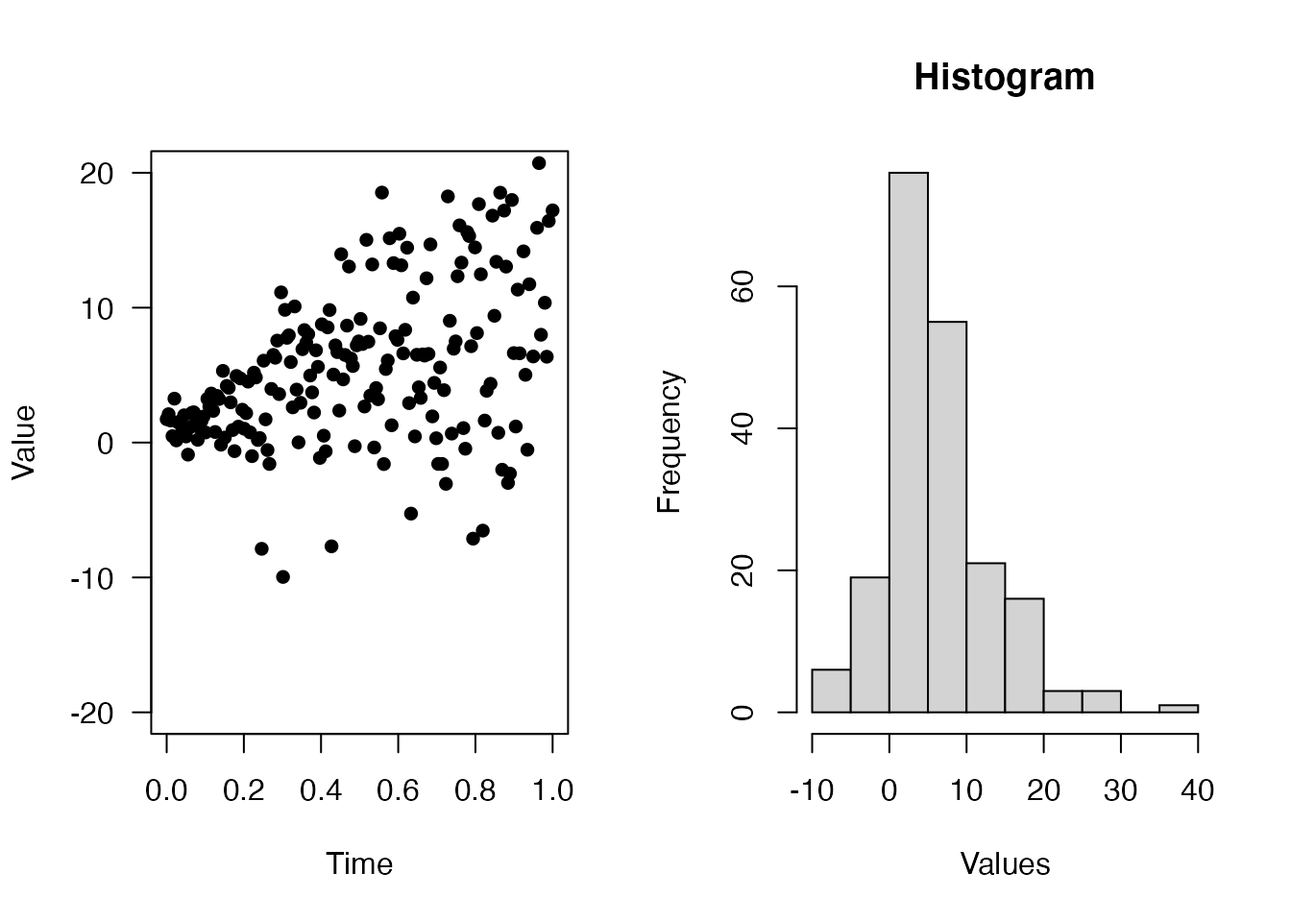
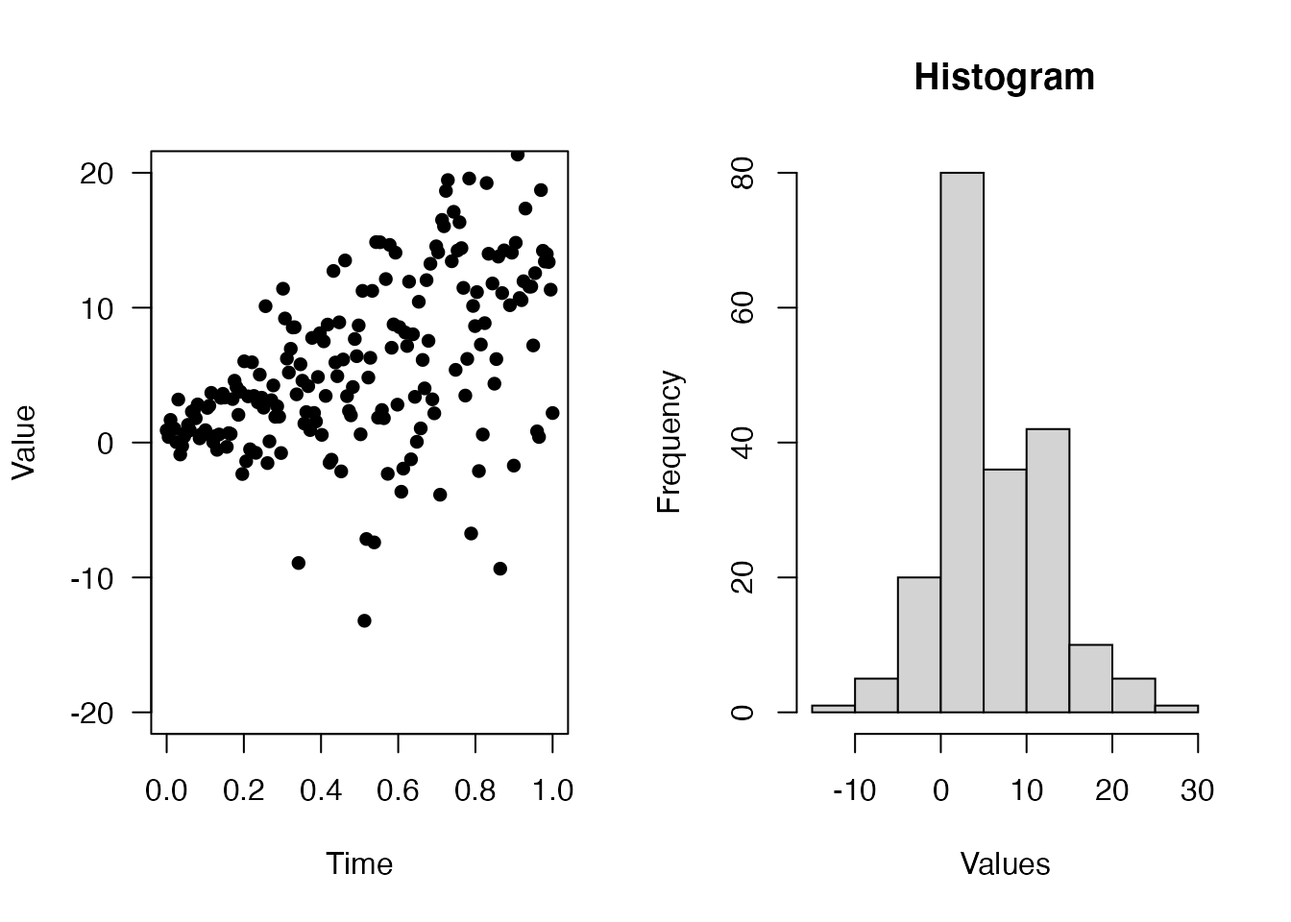
Built site for dipsaus: 0.1.9.9000@4044653

diff --git a/reference/new_function2.html b/reference/new_function2.html
@@ -136,7 +136,7 @@ function like <code>function(a){...}</code>. See examples for more details.</p>
 <span class="r-out co"><span class="r-pr">#&gt;</span> {</span>
 <span class="r-out co"><span class="r-pr">#&gt;</span>     print(a + 1:10)</span>
 <span class="r-out co"><span class="r-pr">#&gt;</span> }</span>
-<span class="r-out co"><span class="r-pr">#&gt;</span> &lt;environment: 0x7f8c1d79ace0&gt;</span>
+<span class="r-out co"><span class="r-pr">#&gt;</span> &lt;environment: 0x7ff2b4990550&gt;</span>
 <span class="r-in"></span>
 <span class="r-in"><span class="fu">f2</span><span class="op">(</span><span class="fl">0</span><span class="op">)</span></span>
 <span class="r-out co"><span class="r-pr">#&gt;</span>  [1]  1  2  3  4  5  6  7  8  9 10</span>
@@ -154,26 +154,26 @@ function like <code>function(a){...}</code>. See examples for more details.</p>
 <span class="r-out co"><span class="r-pr">#&gt;</span> function (a = 123) </span>
 <span class="r-out co"><span class="r-pr">#&gt;</span> {</span>
 <span class="r-out co"><span class="r-pr">#&gt;</span> }</span>
-<span class="r-out co"><span class="r-pr">#&gt;</span> &lt;environment: 0x7f8c1c32a270&gt;</span>
+<span class="r-out co"><span class="r-pr">#&gt;</span> &lt;environment: 0x7ff2b37abee0&gt;</span>
 <span class="r-in"></span>
 <span class="r-in"><span class="co"># default with values unevaluated</span></span>
 <span class="r-in"><span class="fu">new_function2</span><span class="op">(</span><span class="fu"><a href="https://rdrr.io/r/base/list.html" class="external-link">list</a></span><span class="op">(</span>a <span class="op">=</span> <span class="fu"><a href="https://rdrr.io/r/base/substitute.html" class="external-link">quote</a></span><span class="op">(</span><span class="va">default</span><span class="op">)</span><span class="op">)</span><span class="op">)</span>   <span class="co"># function (a = default){}</span></span>
 <span class="r-out co"><span class="r-pr">#&gt;</span> function (a = default) </span>
 <span class="r-out co"><span class="r-pr">#&gt;</span> {</span>
 <span class="r-out co"><span class="r-pr">#&gt;</span> }</span>
-<span class="r-out co"><span class="r-pr">#&gt;</span> &lt;environment: 0x7f8c1c23fba8&gt;</span>
+<span class="r-out co"><span class="r-pr">#&gt;</span> &lt;environment: 0x7ff2b3896d30&gt;</span>
 <span class="r-in"><span class="fu">new_function2</span><span class="op">(</span><span class="fu"><a href="https://rdrr.io/r/base/list.html" class="external-link">alist</a></span><span class="op">(</span>a <span class="op">=</span> <span class="va">default</span><span class="op">)</span><span class="op">)</span></span>
 <span class="r-out co"><span class="r-pr">#&gt;</span> function (a = default) </span>
 <span class="r-out co"><span class="r-pr">#&gt;</span> {</span>
 <span class="r-out co"><span class="r-pr">#&gt;</span> }</span>
-<span class="r-out co"><span class="r-pr">#&gt;</span> &lt;environment: 0x7f8c1d3dc558&gt;</span>
+<span class="r-out co"><span class="r-pr">#&gt;</span> &lt;environment: 0x7ff2b3826588&gt;</span>
 <span class="r-in"></span>
 <span class="r-in"><span class="co"># missing default</span></span>
 <span class="r-in"><span class="fu">new_function2</span><span class="op">(</span><span class="fu"><a href="https://rdrr.io/r/base/list.html" class="external-link">alist</a></span><span class="op">(</span>a <span class="op">=</span> <span class="op">)</span><span class="op">)</span>    <span class="co"># function (a){}</span></span>
 <span class="r-out co"><span class="r-pr">#&gt;</span> function (a) </span>
 <span class="r-out co"><span class="r-pr">#&gt;</span> {</span>
 <span class="r-out co"><span class="r-pr">#&gt;</span> }</span>
-<span class="r-out co"><span class="r-pr">#&gt;</span> &lt;environment: 0x7f8c1ccb36f8&gt;</span>
+<span class="r-out co"><span class="r-pr">#&gt;</span> &lt;environment: 0x7ff2b409ba88&gt;</span>
 <span class="r-in"></span>
 <span class="r-in"></span>
 </code></pre></div>

diff --git a/reference/shared_finalizer.html b/reference/shared_finalizer.html
@@ -251,8 +251,8 @@ instances, <code>fin</code> accepts no argument.</p>
 <span class="r-out co"><span class="r-pr">#&gt;</span> NULL</span>
 <span class="r-in"><span class="fu"><a href="https://rdrr.io/r/base/gc.html" class="external-link">gc</a></span><span class="op">(</span><span class="op">)</span></span>
 <span class="r-out co"><span class="r-pr">#&gt;</span>           used (Mb) gc trigger  (Mb) limit (Mb) max used  (Mb)</span>
-<span class="r-out co"><span class="r-pr">#&gt;</span> Ncells 1208958 64.6    2108318 112.6         NA  2108318 112.6</span>
-<span class="r-out co"><span class="r-pr">#&gt;</span> Vcells 2245856 17.2   12075001  92.2      16384 23583970 180.0</span>
+<span class="r-out co"><span class="r-pr">#&gt;</span> Ncells 1209443 64.6    2160025 115.4         NA  2160025 115.4</span>
+<span class="r-out co"><span class="r-pr">#&gt;</span> Vcells 2247152 17.2   12076090  92.2      16384 23585927 180.0</span>
 <span class="r-in"><span class="va">file_exists</span></span>
 <span class="r-out co"><span class="r-pr">#&gt;</span> [1] TRUE</span>
 <span class="r-in"></span>
@@ -260,8 +260,8 @@ instances, <code>fin</code> accepts no argument.</p>
 <span class="r-in"><span class="fu"><a href="https://rdrr.io/r/base/rm.html" class="external-link">rm</a></span><span class="op">(</span><span class="va">e1</span><span class="op">)</span>; <span class="fu"><a href="https://rdrr.io/r/base/gc.html" class="external-link">gc</a></span><span class="op">(</span><span class="op">)</span></span>
 <span class="r-out co"><span class="r-pr">#&gt;</span> [1] "Clean some shared files"</span>
 <span class="r-out co"><span class="r-pr">#&gt;</span>           used (Mb) gc trigger  (Mb) limit (Mb) max used  (Mb)</span>
-<span class="r-out co"><span class="r-pr">#&gt;</span> Ncells 1208969 64.6    2108318 112.6         NA  2108318 112.6</span>
-<span class="r-out co"><span class="r-pr">#&gt;</span> Vcells 2245904 17.2   12075001  92.2      16384 23583970 180.0</span>
+<span class="r-out co"><span class="r-pr">#&gt;</span> Ncells 1209454 64.6    2160025 115.4         NA  2160025 115.4</span>
+<span class="r-out co"><span class="r-pr">#&gt;</span> Vcells 2247200 17.2   12076090  92.2      16384 23585927 180.0</span>
 <span class="r-in"><span class="va">e2</span><span class="op">$</span><span class="fu">valid</span><span class="op">(</span><span class="op">)</span>    <span class="co"># FALSE</span></span>
 <span class="r-out co"><span class="r-pr">#&gt;</span> [1] FALSE</span>
 <span class="r-in"></span>
@@ -269,8 +269,8 @@ instances, <code>fin</code> accepts no argument.</p>
 <span class="r-in"><span class="fu"><a href="https://rdrr.io/r/base/rm.html" class="external-link">rm</a></span><span class="op">(</span><span class="va">e2</span><span class="op">)</span>; <span class="fu"><a href="https://rdrr.io/r/base/gc.html" class="external-link">gc</a></span><span class="op">(</span><span class="op">)</span></span>
 <span class="r-out co"><span class="r-pr">#&gt;</span> [1] "Clean some shared files"</span>
 <span class="r-out co"><span class="r-pr">#&gt;</span>           used (Mb) gc trigger  (Mb) limit (Mb) max used  (Mb)</span>
-<span class="r-out co"><span class="r-pr">#&gt;</span> Ncells 1208990 64.6    2108318 112.6         NA  2108318 112.6</span>
-<span class="r-out co"><span class="r-pr">#&gt;</span> Vcells 2245918 17.2   12075001  92.2      16384 23583970 180.0</span>
+<span class="r-out co"><span class="r-pr">#&gt;</span> Ncells 1209475 64.6    2160025 115.4         NA  2160025 115.4</span>
+<span class="r-out co"><span class="r-pr">#&gt;</span> Vcells 2247214 17.2   12076090  92.2      16384 23585927 180.0</span>
 <span class="r-in"></span>
 </code></pre></div>
     </div>

diff --git a/reference/collapse.html b/reference/collapse.html
@@ -125,9 +125,9 @@ collapsing dimensions</p>
 <span class="r-in">  <span class="op">}</span></span>
 <span class="r-in"><span class="op">)</span></span>
 <span class="r-out co"><span class="r-pr">#&gt;</span> Unit: microseconds</span>
-<span class="r-out co"><span class="r-pr">#&gt;</span>     expr     min      lq    mean  median      uq     max neval</span>
-<span class="r-out co"><span class="r-pr">#&gt;</span>   result 673.934 673.934 673.934 673.934 673.934 673.934     1</span>
-<span class="r-out co"><span class="r-pr">#&gt;</span>  compare 191.743 191.743 191.743 191.743 191.743 191.743     1</span>
+<span class="r-out co"><span class="r-pr">#&gt;</span>     expr       min        lq      mean    median        uq       max neval</span>
+<span class="r-out co"><span class="r-pr">#&gt;</span>   result 10940.393 10940.393 10940.393 10940.393 10940.393 10940.393     1</span>
+<span class="r-out co"><span class="r-pr">#&gt;</span>  compare   388.777   388.777   388.777   388.777   388.777   388.777     1</span>
 <span class="r-in"></span>
 <span class="r-in"><span class="co"># large data big difference</span></span>
 <span class="r-in"><span class="va">x</span> <span class="op">=</span> <span class="fu"><a href="https://rdrr.io/r/base/array.html" class="external-link">array</a></span><span class="op">(</span><span class="fu"><a href="https://rdrr.io/r/stats/Normal.html" class="external-link">rnorm</a></span><span class="op">(</span><span class="fu"><a href="https://rdrr.io/r/base/prod.html" class="external-link">prod</a></span><span class="op">(</span><span class="fl">300</span>,<span class="fl">200</span>,<span class="fl">105</span><span class="op">)</span><span class="op">)</span>, <span class="fu"><a href="https://rdrr.io/r/base/c.html" class="external-link">c</a></span><span class="op">(</span><span class="fl">300</span>,<span class="fl">200</span>,<span class="fl">105</span>,<span class="fl">1</span><span class="op">)</span><span class="op">)</span></span>
@@ -139,8 +139,8 @@ collapsing dimensions</p>
 <span class="r-in">  <span class="op">}</span><span class="op">)</span></span>
 <span class="r-out co"><span class="r-pr">#&gt;</span> Unit: milliseconds</span>
 <span class="r-out co"><span class="r-pr">#&gt;</span>     expr       min        lq      mean    median        uq       max neval</span>
-<span class="r-out co"><span class="r-pr">#&gt;</span>   result  52.53767  52.53767  52.53767  52.53767  52.53767  52.53767     1</span>
-<span class="r-out co"><span class="r-pr">#&gt;</span>  compare 206.15907 206.15907 206.15907 206.15907 206.15907 206.15907     1</span>
+<span class="r-out co"><span class="r-pr">#&gt;</span>   result  67.92843  67.92843  67.92843  67.92843  67.92843  67.92843     1</span>
+<span class="r-out co"><span class="r-pr">#&gt;</span>  compare 200.82227 200.82227 200.82227 200.82227 200.82227 200.82227     1</span>
 <span class="r-in"></span>
 </code></pre></div>
     </div>

diff --git a/reference/fastqueue2.html b/reference/fastqueue2.html
@@ -126,7 +126,7 @@ as.list(x, ...)</code></pre></div>
 <span class="r-in"><span class="co"># the second item</span></span>
 <span class="r-in"><span class="va">x</span><span class="op">[[</span><span class="fl">2</span><span class="op">]</span><span class="op">]</span></span>
 <span class="r-out co"><span class="r-pr">#&gt;</span> function(){ "c" }</span>
-<span class="r-out co"><span class="r-pr">#&gt;</span> &lt;environment: 0x7f8c0ad06ad0&gt;</span>
+<span class="r-out co"><span class="r-pr">#&gt;</span> &lt;environment: 0x7ff2b6a6a5c0&gt;</span>
 <span class="r-in"></span>
 <span class="r-in"><span class="co"># first two items in a list</span></span>
 <span class="r-in"><span class="va">x</span><span class="op">[</span><span class="fu"><a href="https://rdrr.io/r/base/c.html" class="external-link">c</a></span><span class="op">(</span><span class="fl">1</span>,<span class="fl">2</span><span class="op">)</span><span class="op">]</span></span>
@@ -135,7 +135,7 @@ as.list(x, ...)</code></pre></div>
 <span class="r-out co"><span class="r-pr">#&gt;</span> </span>
 <span class="r-out co"><span class="r-pr">#&gt;</span> [[2]]</span>
 <span class="r-out co"><span class="r-pr">#&gt;</span> function(){ "c" }</span>
-<span class="r-out co"><span class="r-pr">#&gt;</span> &lt;environment: 0x7f8c0ad06ad0&gt;</span>
+<span class="r-out co"><span class="r-pr">#&gt;</span> &lt;environment: 0x7ff2b6a6a5c0&gt;</span>
 <span class="r-out co"><span class="r-pr">#&gt;</span> </span>
 <span class="r-in"></span>
 <span class="r-in"><span class="fu"><a href="https://rdrr.io/r/base/print.html" class="external-link">print</a></span><span class="op">(</span><span class="va">x</span><span class="op">)</span></span>
@@ -146,7 +146,7 @@ as.list(x, ...)</code></pre></div>
 <span class="r-out co"><span class="r-pr">#&gt;</span> </span>
 <span class="r-out co"><span class="r-pr">#&gt;</span> [[2]]</span>
 <span class="r-out co"><span class="r-pr">#&gt;</span> function(){ "c" }</span>
-<span class="r-out co"><span class="r-pr">#&gt;</span> &lt;environment: 0x7f8c0ad06ad0&gt;</span>
+<span class="r-out co"><span class="r-pr">#&gt;</span> &lt;environment: 0x7ff2b6a6a5c0&gt;</span>
 <span class="r-out co"><span class="r-pr">#&gt;</span> </span>
 <span class="r-out co"><span class="r-pr">#&gt;</span> [[3]]</span>
 <span class="r-out co"><span class="r-pr">#&gt;</span> [1] 4</span>

diff --git a/reference/grapes-equals-greater-than-grapes.html b/reference/grapes-equals-greater-than-grapes.html
@@ -95,7 +95,7 @@ the function body</p>
 <span class="r-out co"><span class="r-pr">#&gt;</span> {</span>
 <span class="r-out co"><span class="r-pr">#&gt;</span>     print(a)</span>
 <span class="r-out co"><span class="r-pr">#&gt;</span> }</span>
-<span class="r-out co"><span class="r-pr">#&gt;</span> &lt;environment: 0x7f8c1bff8d00&gt;</span>
+<span class="r-out co"><span class="r-pr">#&gt;</span> &lt;environment: 0x7ff2b3d4f240&gt;</span>
 <span class="r-in"></span>
 <span class="r-in"><span class="co"># Informal arguments</span></span>
 <span class="r-in"><span class="fu"><a href="https://rdrr.io/r/base/list.html" class="external-link">list</a></span><span class="op">(</span>a<span class="op">=</span><span class="op">)</span> <span class="op">%=&gt;%</span> <span class="op">{</span></span>
@@ -105,7 +105,7 @@ the function body</p>
 <span class="r-out co"><span class="r-pr">#&gt;</span> {</span>
 <span class="r-out co"><span class="r-pr">#&gt;</span>     print(a)</span>
 <span class="r-out co"><span class="r-pr">#&gt;</span> }</span>
-<span class="r-out co"><span class="r-pr">#&gt;</span> &lt;environment: 0x7f8c1bff8d00&gt;</span>
+<span class="r-out co"><span class="r-pr">#&gt;</span> &lt;environment: 0x7ff2b3d4f240&gt;</span>
 <span class="r-in"></span>
 <span class="r-in"><span class="co"># Multiple inputs</span></span>
 <span class="r-in"><span class="fu"><a href="https://rdrr.io/r/base/c.html" class="external-link">c</a></span><span class="op">(</span><span class="va">a</span>, b <span class="op">=</span> <span class="fl">2</span>, <span class="va">...</span><span class="op">)</span> <span class="op">%=&gt;%</span> <span class="op">{</span></span>
@@ -115,7 +115,7 @@ the function body</p>
 <span class="r-out co"><span class="r-pr">#&gt;</span> {</span>
 <span class="r-out co"><span class="r-pr">#&gt;</span>     print(c(a, b, ...))</span>
 <span class="r-out co"><span class="r-pr">#&gt;</span> }</span>
-<span class="r-out co"><span class="r-pr">#&gt;</span> &lt;environment: 0x7f8c1bff8d00&gt;</span>
+<span class="r-out co"><span class="r-pr">#&gt;</span> &lt;environment: 0x7ff2b3d4f240&gt;</span>
 <span class="r-in"></span>
 <span class="r-in"><span class="co"># ----- JavaScript style of forEach -----</span></span>
 <span class="r-in"><span class="co"># ### Equivalent JavaScript Code:</span></span>

diff --git a/reference/fastquantile.html b/reference/fastquantile.html
@@ -120,14 +120,14 @@ implementation when the length of input <code>x</code> is less than <code>1e7</c
 <span class="r-in">  <span class="op">}</span></span>
 <span class="r-in"><span class="op">)</span></span>
 <span class="r-out co"><span class="r-pr">#&gt;</span> Unit: microseconds</span>
-<span class="r-out co"><span class="r-pr">#&gt;</span>                                    expr     min      lq     mean   median</span>
-<span class="r-out co"><span class="r-pr">#&gt;</span>            {     fastquantile(x, 0.5) } 154.856 160.267 167.3696 163.2475</span>
-<span class="r-out co"><span class="r-pr">#&gt;</span>  {     quantile(x, 0.5, na.rm = TRUE) } 565.731 581.273 602.3048 589.3650</span>
-<span class="r-out co"><span class="r-pr">#&gt;</span>         {     median(x, na.rm = TRUE) } 426.205 456.920 473.2764 464.0425</span>
-<span class="r-out co"><span class="r-pr">#&gt;</span>       uq     max neval</span>
-<span class="r-out co"><span class="r-pr">#&gt;</span>  167.318 316.312   100</span>
-<span class="r-out co"><span class="r-pr">#&gt;</span>  608.844 789.919   100</span>
-<span class="r-out co"><span class="r-pr">#&gt;</span>  476.621 643.478   100</span>
+<span class="r-out co"><span class="r-pr">#&gt;</span>                                    expr     min       lq     mean   median</span>
+<span class="r-out co"><span class="r-pr">#&gt;</span>            {     fastquantile(x, 0.5) } 157.268 162.2935 168.4605 166.8380</span>
+<span class="r-out co"><span class="r-pr">#&gt;</span>  {     quantile(x, 0.5, na.rm = TRUE) } 564.753 590.4350 628.2094 601.8055</span>
+<span class="r-out co"><span class="r-pr">#&gt;</span>         {     median(x, na.rm = TRUE) } 405.512 459.1915 484.6262 468.8860</span>
+<span class="r-out co"><span class="r-pr">#&gt;</span>        uq      max neval</span>
+<span class="r-out co"><span class="r-pr">#&gt;</span>  171.7945  202.355   100</span>
+<span class="r-out co"><span class="r-pr">#&gt;</span>  628.2970 2029.814   100</span>
+<span class="r-out co"><span class="r-pr">#&gt;</span>  485.0270 1031.662   100</span>
 <span class="r-in"></span>
 </code></pre></div>
     </div>

diff --git a/reference/mask_function2.html b/reference/mask_function2.html
@@ -105,9 +105,9 @@ environment.</p>
 <span class="r-out co"><span class="r-pr">#&gt;</span> [1] 2</span>
 <span class="r-in"></span>
 <span class="r-in"><span class="fu"><a href="https://rdrr.io/r/base/environment.html" class="external-link">environment</a></span><span class="op">(</span><span class="va">f1</span><span class="op">)</span>  <span class="co"># global env</span></span>
-<span class="r-out co"><span class="r-pr">#&gt;</span> &lt;environment: 0x7f8c1c42df68&gt;</span>
+<span class="r-out co"><span class="r-pr">#&gt;</span> &lt;environment: 0x7ff2b26f1380&gt;</span>
 <span class="r-in"><span class="fu"><a href="https://rdrr.io/r/base/environment.html" class="external-link">environment</a></span><span class="op">(</span><span class="va">f2</span><span class="op">)</span>  <span class="co"># masked env</span></span>
-<span class="r-out co"><span class="r-pr">#&gt;</span> &lt;environment: 0x7f8c1cef3cf0&gt;</span>
+<span class="r-out co"><span class="r-pr">#&gt;</span> &lt;environment: 0x7ff2b33b4800&gt;</span>
 <span class="r-in"></span>
 <span class="r-in"><span class="va">env</span> <span class="op">&lt;-</span> <span class="fu"><a href="https://rdrr.io/r/base/environment.html" class="external-link">environment</a></span><span class="op">(</span><span class="va">f2</span><span class="op">)</span></span>
 <span class="r-in"><span class="fu"><a href="https://rdrr.io/r/base/identical.html" class="external-link">identical</a></span><span class="op">(</span><span class="fu"><a href="https://rdrr.io/r/base/environment.html" class="external-link">parent.env</a></span><span class="op">(</span><span class="va">env</span><span class="op">)</span>, <span class="fu"><a href="https://rdrr.io/r/base/environment.html" class="external-link">environment</a></span><span class="op">(</span><span class="va">f1</span><span class="op">)</span><span class="op">)</span>  <span class="co"># true</span></span>

diff --git a/articles/r_expr_addons.html b/articles/r_expr_addons.html
@@ -129,7 +129,7 @@
 <span class="co">#&gt; $aa</span>
 <span class="co">#&gt; [1] 1</span>
 <span class="co">#&gt;    user  system elapsed </span>
-<span class="co">#&gt;       0       0       0</span></code></pre></div>
+<span class="co">#&gt;   0.001   0.000   0.000</span></code></pre></div>
 </div>
 <div class="section level3">
 <h3 id="javascript-style-of-creating-functions">2. JavaScript-style of creating functions<a class="anchor" aria-label="anchor" href="#javascript-style-of-creating-functions"></a>
@@ -259,12 +259,12 @@ li.map((el, ii) => {
   <span class="fu"><a href="../reference/no_op.html">no_op</a></span><span class="op">(</span><span class="va">hist</span>, xlab <span class="op">=</span> <span class="st">'Values'</span>, main <span class="op">=</span> <span class="st">'Histogram'</span><span class="op">)</span> <span class="op">-&gt;</span>
   <span class="va">result</span>
 <span class="co">#&gt;    Min. 1st Qu.  Median    Mean 3rd Qu.    Max. </span>
-<span class="co">#&gt;  -9.961   1.424   4.953   6.105   8.694  38.503</span></code></pre></div>
+<span class="co">#&gt; -13.212   1.045   4.300   6.046  11.178  28.790</span></code></pre></div>
 <p><img src="r_expr_addons_files/figure-html/unnamed-chunk-15-1.png" width="672"></p>
 <div class="sourceCode" id="cb15"><pre class="downlit sourceCode r">
 <code class="sourceCode R">
 <span class="fu"><a href="https://rdrr.io/r/utils/str.html" class="external-link">str</a></span><span class="op">(</span><span class="va">result</span><span class="op">)</span>
-<span class="co">#&gt;  num [1:200] 1.733 2.104 1.637 0.474 3.256 ...</span></code></pre></div>
+<span class="co">#&gt;  num [1:200] 0.908 0.411 1.681 1.091 1.03 ...</span></code></pre></div>
 </div>
 <div class="section level4">
 <h4 id="do_aggregate">

diff --git a/reference/forelse.html b/reference/forelse.html
@@ -165,10 +165,10 @@ or the result of <code>ALT_FUN()</code>.</p>
 <span class="r-out co"><span class="r-pr">#&gt;</span>                                                                                          {     forelse(1:10, FUN, "wow") }</span>
 <span class="r-out co"><span class="r-pr">#&gt;</span>  {     y &lt;- unlist(lapply(1:10, FUN))     if (length(y)) {         y &lt;- y[[1]]     }     else {         y &lt;- "wow"     } }</span>
 <span class="r-out co"><span class="r-pr">#&gt;</span>           {     y &lt;- NULL     for (x in 1:10) {         y &lt;- FUN(x)     }     if (is.null(y)) {         y &lt;- "wow"     } }</span>
-<span class="r-out co"><span class="r-pr">#&gt;</span>        min       lq     mean    median       uq      max neval</span>
-<span class="r-out co"><span class="r-pr">#&gt;</span>   21.17396  51.1760  82.2796  81.17804 112.8324 144.4868     3</span>
-<span class="r-out co"><span class="r-pr">#&gt;</span>  366.14746 423.4180 446.5772 480.68851 486.7921 492.8956     3</span>
-<span class="r-out co"><span class="r-pr">#&gt;</span>  288.37691 340.6471 397.1473 392.91727 451.5325 510.1476     3</span>
+<span class="r-out co"><span class="r-pr">#&gt;</span>        min        lq      mean    median       uq      max neval</span>
+<span class="r-out co"><span class="r-pr">#&gt;</span>   20.80118  57.02891  88.08754  93.25663 121.7307 150.2048     3</span>
+<span class="r-out co"><span class="r-pr">#&gt;</span>  132.38021 145.55403 234.46362 158.72785 285.5053 412.2828     3</span>
+<span class="r-out co"><span class="r-pr">#&gt;</span>  113.42907 214.11374 261.91093 314.79842 336.1519 357.5053     3</span>
 <span class="r-in"></span>
 <span class="r-in"></span>
 </code></pre></div>

diff --git a/reference/as_pipe.html b/reference/as_pipe.html
@@ -118,7 +118,7 @@ otherwise run the function with given <code>x</code></p>
 <span class="r-out co"><span class="r-pr">#&gt;</span> {</span>
 <span class="r-out co"><span class="r-pr">#&gt;</span>     plot(1:10, 1:10, ..., pch = pch, main = "[input:title]")</span>
 <span class="r-out co"><span class="r-pr">#&gt;</span> }</span>
-<span class="r-out co"><span class="r-pr">#&gt;</span> &lt;environment: 0x7f8c1c72ae08&gt;</span>
+<span class="r-out co"><span class="r-pr">#&gt;</span> &lt;environment: 0x7ff2b62e2130&gt;</span>
 <span class="r-in"></span>
 <span class="r-in"><span class="co"># vary_title is pipe-friendly with `pch` default 16</span></span>
 <span class="r-in"><span class="fu">vary_title</span><span class="op">(</span>title <span class="op">=</span> <span class="st">'My Title'</span><span class="op">)</span></span>
@@ -143,7 +143,7 @@ otherwise run the function with given <code>x</code></p>
 <span class="r-out co"><span class="r-pr">#&gt;</span> {</span>
 <span class="r-out co"><span class="r-pr">#&gt;</span>     f(..., x = "[input:x]")</span>
 <span class="r-out co"><span class="r-pr">#&gt;</span> }</span>
-<span class="r-out co"><span class="r-pr">#&gt;</span> &lt;environment: 0x7f8c20d38a58&gt;</span>
+<span class="r-out co"><span class="r-pr">#&gt;</span> &lt;environment: 0x7ff2b6cb3880&gt;</span>
 <span class="r-in"></span>
 <span class="r-in"><span class="fu">f_pipable</span><span class="op">(</span><span class="fl">2</span><span class="op">)</span></span>
 <span class="r-out co"><span class="r-pr">#&gt;</span> [1] 3</span>

diff --git a/reference/fastcov2.html b/reference/fastcov2.html
@@ -134,9 +134,9 @@ resulting covariance matrices.</p>
 <span class="r-in">  unit <span class="op">=</span> <span class="st">'ms'</span>, times <span class="op">=</span> <span class="fl">10</span></span>
 <span class="r-in"><span class="op">)</span></span>
 <span class="r-out co"><span class="r-pr">#&gt;</span> Unit: milliseconds</span>
-<span class="r-out co"><span class="r-pr">#&gt;</span>      expr      min       lq     mean   median       uq      max neval</span>
-<span class="r-out co"><span class="r-pr">#&gt;</span>  fastcov2 1.906428 1.929648 1.987283 1.956976 2.079504 2.110852    10</span>
-<span class="r-out co"><span class="r-pr">#&gt;</span>       cov 2.992376 3.003704 3.106857 3.042547 3.210497 3.342811    10</span>
+<span class="r-out co"><span class="r-pr">#&gt;</span>      expr      min       lq     mean   median       uq       max neval</span>
+<span class="r-out co"><span class="r-pr">#&gt;</span>  fastcov2 2.199909 3.043495 3.931199 3.135873 3.201170 12.089811    10</span>
+<span class="r-out co"><span class="r-pr">#&gt;</span>       cov 3.059400 3.067759 3.161904 3.128080 3.156169  3.424677    10</span>
 <span class="r-in"></span>
 <span class="r-in"></span>
 </code></pre></div>

diff --git a/reference/time_delta.html b/reference/time_delta.html
@@ -93,9 +93,9 @@
 <span class="r-in"><span class="va">b</span> <span class="op">=</span> <span class="fu"><a href="https://rdrr.io/r/base/Sys.time.html" class="external-link">Sys.time</a></span><span class="op">(</span><span class="op">)</span></span>
 <span class="r-in"></span>
 <span class="r-in"><span class="fu">time_delta</span><span class="op">(</span><span class="va">a</span>, <span class="va">b</span><span class="op">)</span> <span class="co"># In seconds, around 0.3</span></span>
-<span class="r-out co"><span class="r-pr">#&gt;</span> [1] 0.379986</span>
+<span class="r-out co"><span class="r-pr">#&gt;</span> [1] 0.3181548</span>
 <span class="r-in"><span class="fu">time_delta</span><span class="op">(</span><span class="va">a</span>, <span class="va">b</span>, <span class="st">'mins'</span><span class="op">)</span> <span class="co"># in minutes, around 0.005</span></span>
-<span class="r-out co"><span class="r-pr">#&gt;</span> [1] 0.006333101</span>
+<span class="r-out co"><span class="r-pr">#&gt;</span> [1] 0.00530258</span>
 <span class="r-in"></span>
 </code></pre></div>
     </div>
